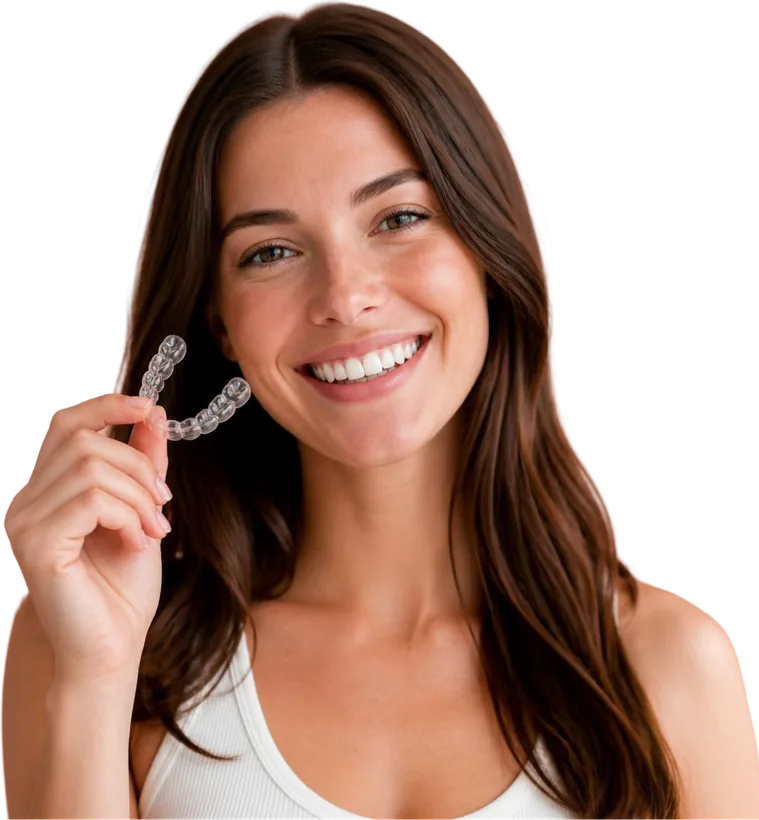
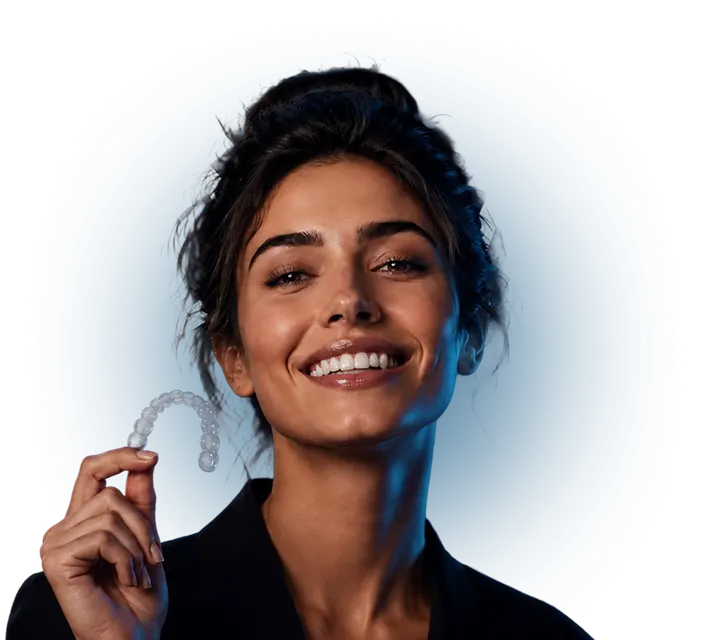
Black Friday hero v2: purple-lit portrait, fits one screen
- richer library portrait (lp26-hero) with purple glow, colour grade and
  feathered edges so it blends into the banner
- hero height now fits the viewport (clamp 520-640px) so the banner and the
  trust strip show without scrolling; smaller image on mobile

diff --git a/apps/web/public/landing-bf/bf.css b/apps/web/public/landing-bf/bf.css
@@ -834,3 +834,36 @@ a{color:inherit;text-decoration:none}
  .hv{right:auto;width:calc(100% - 40px);margin:30px 20px 0 20px;-webkit-mask-image:linear-gradient(180deg,#000 78%,transparent 100%);mask-image:linear-gradient(180deg,#000 78%,transparent 100%)}
  .hv .cut{width:100%;height:auto}
 }
+
+/* ---------- hero v2: fits one screen, purple-lit portrait ---------- */
+/* chrome above/below the hero = announcement 36 + header 72 + padding 20 + strip 76 + padding 10 */
+.hero.bf{height:clamp(520px,calc(100vh - 214px),640px)}
+.hero.bf .in{padding-top:0;padding-bottom:0}
+.hv{right:24px;height:100%;z-index:1}
+.hv::before{content:"";position:absolute;z-index:-1;left:-45%;right:-35%;top:-18%;bottom:-8%;
+ background:radial-gradient(ellipse 52% 55% at 52% 46%,rgba(138,92,255,.62) 0%,rgba(84,48,190,.34) 42%,rgba(40,22,110,0) 72%);pointer-events:none}
+.hv .cut{height:100%;width:auto;
+ -webkit-mask-image:linear-gradient(180deg,#000 84%,transparent 100%);mask-image:linear-gradient(180deg,#000 84%,transparent 100%);
+ filter:contrast(1.1) saturate(1.12) brightness(.92) drop-shadow(0 0 46px rgba(124,77,255,.38))}
+.ot{-webkit-text-stroke-color:rgb(196 176 255 / .40)}
+@media (max-width:760px){
+ .hero.bf{height:auto}
+ .hv{right:auto;width:auto;height:clamp(250px,38vh,320px);margin:26px 0 0;justify-self:center;
+  -webkit-mask-image:none;mask-image:none}
+ .hv::before{left:-30%;right:-30%;top:-10%;bottom:0}
+ .hv .cut{width:auto;height:100%;-webkit-mask-image:linear-gradient(180deg,#000 82%,transparent 100%);mask-image:linear-gradient(180deg,#000 82%,transparent 100%)}
+ .hero.bf .in{margin-top:-18px}
+}
+/* feather the photo's own backdrop into the hero (left edge + bottom) */
+.hv .cut{
+ -webkit-mask-image:linear-gradient(90deg,transparent 0,#000 26%),linear-gradient(180deg,#000 84%,transparent 100%);
+ -webkit-mask-composite:source-in;
+ mask-image:linear-gradient(90deg,transparent 0,#000 26%),linear-gradient(180deg,#000 84%,transparent 100%);
+ mask-composite:intersect}
+@media (max-width:760px){
+ .hv .cut{
+  -webkit-mask-image:linear-gradient(90deg,transparent 0,#000 20%,#000 80%,transparent 100%),linear-gradient(180deg,#000 80%,transparent 100%);
+  -webkit-mask-composite:source-in;
+  mask-image:linear-gradient(90deg,transparent 0,#000 20%,#000 80%,transparent 100%),linear-gradient(180deg,#000 80%,transparent 100%);
+  mask-composite:intersect}
+}

diff --git a/apps/web/public/landing-bf/bf-markup.html b/apps/web/public/landing-bf/bf-markup.html
@@ -12,7 +12,7 @@
  <picture class="tex"><source media="(max-width:760px)" srcset="/landing-bf/img/ae38864696.webp"><img src="/landing-bf/img/9ee58dbc0c.webp" alt=""></picture>
  <div class="shade" aria-hidden="true"></div>
  <div class="ot" aria-hidden="true"><span>UNLOCK</span><span>£100 OFF</span><span>EVERY</span><span>MOVE</span></div>
- <div class="hv"><picture><source media="(max-width:760px)" srcset="/landing-bf/img/hero-woman-m.webp"><img class="cut" src="/landing-bf/img/hero-woman.webp" width="1258" height="1360" alt="A smiling woman holding a clear aligner"></picture></div>
+ <div class="hv"><picture><source media="(max-width:760px)" srcset="/landing-bf/img/hero-woman-m.webp"><img class="cut" src="/landing-bf/img/hero-woman.webp" width="1101" height="1000" alt="A smiling woman holding a clear aligner"></picture></div>
  <div class="in"><div class="hero-copy">
   <div class="bfb gl"><span>Black Friday sale</span></div>
   <h1 class="h1"><b>£100 off</b> every Move <br>this Black Friday.</h1><hr>
